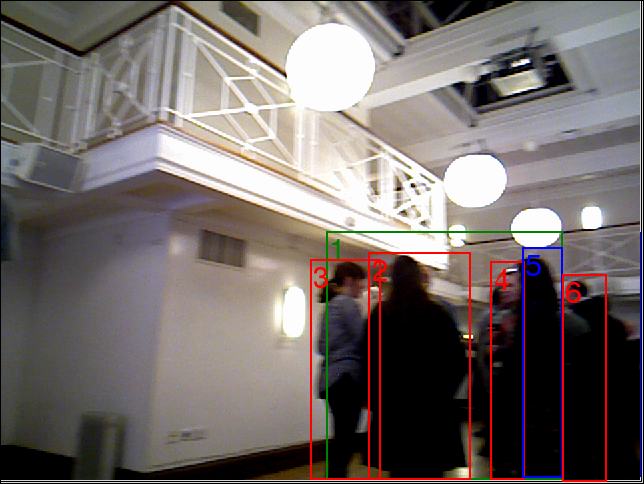
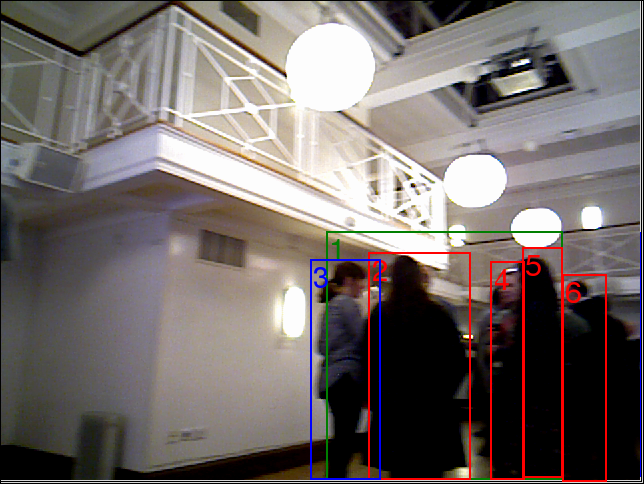
labels displayed on canvas, add label with hover+tab

diff --git a/src/mod-hum-annotation.py b/src/mod-hum-annotation.py
@@ -948,7 +948,7 @@ class Example(Frame):
         self.cur_path = cur_path
         self.ct = AAController()
         font_path = os.path.dirname(os.path.realpath(__file__))
-        self.img_font = ImageFont.truetype(os.path.join(font_path, "FreeSans.ttf"), 30)
+        self.img_font = ImageFont.truetype(os.path.join(font_path, "FreeSans.ttf"), 25)
         self.init_ui()
         self.event_counter = 0
 
@@ -1023,6 +1023,7 @@ class Example(Frame):
         self.canvas.bind("D", self.delete_all_rects)
         self.canvas.bind("l", self.propagate_all_labels)
         self.canvas.bind("o", self.propagate_label)
+        self.canvas.bind("<Tab>", self.label_cur_rect)
         self.object_id_box.bind("<Key-space>", self.next_frame_w_rop)  # the space key
         self.canvas.bind("<Key-space>", self.next_frame_w_rop)  # the space key
         self.object_id_box.bind("<<ListboxSelect>>", self.object_id_box_click)
@@ -1270,6 +1271,28 @@ class Example(Frame):
                 self.save_images_with_bbox()
         self.is_modified = True
 
+    def label_cur_rect(self, event):
+        sempos = self.ct.get_sem_mouse_pos(self.mousex, self.mousey)
+        object_text = self.object_id_box.get(sempos.index)
+        human_id = object_text.split('[')[1].split(']')[0]
+
+        class_id = tkSimpleDialog.askinteger('Set BBOX ID',
+                                             'Enter group ID for person [' + human_id + '] or 0 if they are not in a group')
+        if class_id == None:
+            class_id = -1
+        # print str(class_id), ' is the class id for that human.'
+
+        # object_id = int(self.clicked_object_id[0])
+        # print 'objectidboxclick object id ', object_id+1
+        # print 'objectidcoxclicl curfrnr ', self.ct.cur_frame_nr
+        self.ct.update_ca_frame_single(self.ct.cur_frame_nr, human_id, class_id)
+        self.display_anno()
+        self.display_class_assignations()
+        self.canvas.update()
+        if cfg.BBOX_PREFIX != 'default':
+            self.save_images_with_bbox()
+        self.is_modified = True
+
     def left_mouse_down(self, event):
         # On a Mac the right click does not work, at least not expected
         # workaround: if the CTRL key is held with a left click, we consider
@@ -1394,7 +1417,17 @@ class Example(Frame):
                 curcol = "red"
             draw.rectangle([r.x1, r.y1, r.x2, r.y2], outline=curcol)
             draw.rectangle([r.x1 + 1, r.y1 + 1, r.x2 - 1, r.y2 - 1], outline=curcol)
-            draw.text([r.x1 + 3, r.y1 + 2], str(r.object_id), font=self.img_font, fill=curcol)
+
+            frame_info = self.ct.select_ca_frame_info(self.ct.cur_frame_nr)
+            frame_keys = [info[0] for info in frame_info]
+            frame_labels = [info[1] for info in frame_info]
+            x = frame_labels
+            label = 0
+            for idx, key in enumerate(frame_keys):
+                if key == r.object_id:
+                    label = x[idx]
+                    break
+            draw.text([r.x1 + 3, r.y1 + 2], str(r.object_id)+' - '+str(label), font=self.img_font, fill=curcol)
 
             # Draw the icons
             if i == sempos.index:
@@ -1424,10 +1457,10 @@ class Example(Frame):
         frame_labels = [info[1] for info in frame_info]
         x = frame_labels
         for idx, key in enumerate(frame_keys):
-            if frame_labels[idx] < 0:
+            if x[idx] < 0:
                 self.object_id_box.insert(END, "[" + str(key) + "] has no assigned class ")
             else:
-                self.object_id_box.insert(END, "Human [" + str(key) + "] belongs to group [" + str(frame_labels[idx]) + "]")
+                self.object_id_box.insert(END, "Human [" + str(key) + "] belongs to group [" + str(x[idx]) + "]")
 
     # a listbox item has been clicked: choose the object class for
     # a given object
